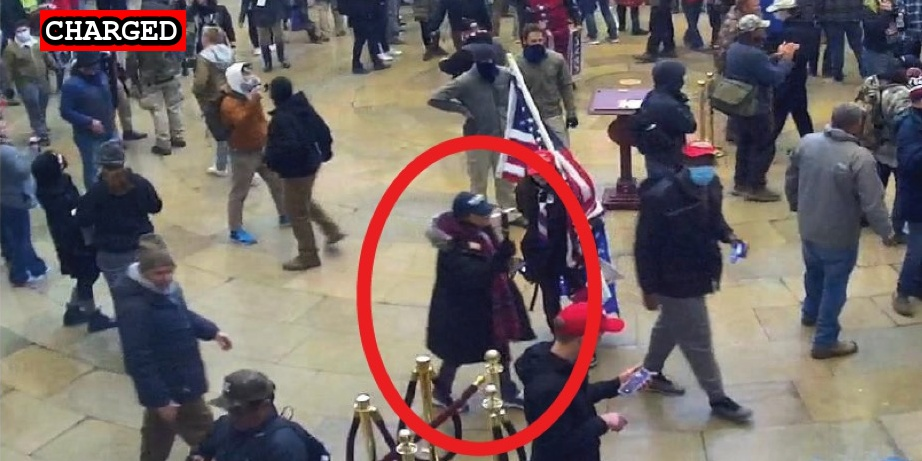
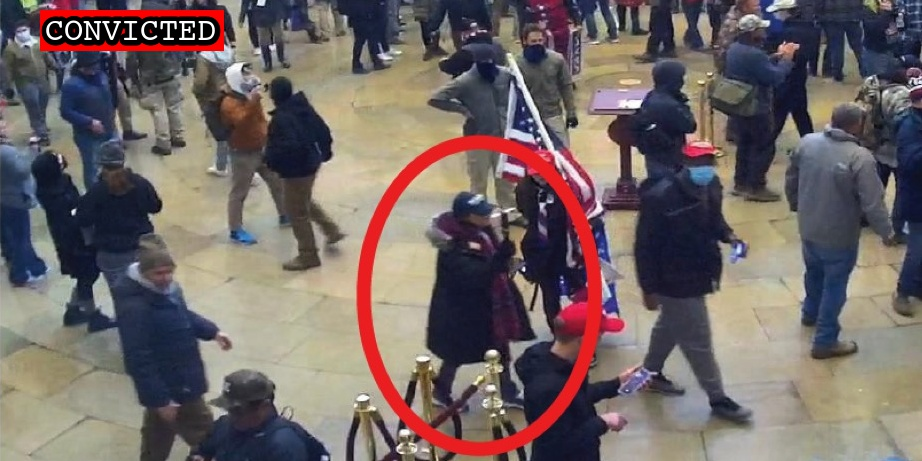
Hemphill plea

Changed region(s): [[0.0304, 0.0, 0.243, 0.1215]]

diff --git a/docs/_suspects/pamela-hemphill.md b/docs/_suspects/pamela-hemphill.md
@@ -4,16 +4,16 @@ lastName: Hemphill
 hashtag: IAmPamHemphill
 aka:
 residence: Idaho
-status: Charged
+status: Convicted
 date: 2021-08-02
 charged: 2021-08-02
 indicted:
-convicted:
+convicted: 2022-01-21
 sentenced:
 dismissed:
 deceased:
-plea_hearing:
-sentencing:
+plea_hearing: 2022-01-21
+sentencing: 2022-05-18
 age:
 occupation:
 affiliations:
@@ -34,8 +34,13 @@ published: true
 caseNumber:
 videos:
 charges:
+  - code: 18 USC § 5104(e)(2)(G)
+    title: Parading, demonstrating or picketing in a Capitol building
+    url: https://www.law.cornell.edu/uscode/text/40/5104
+    felony: false
 sentence:
 ---
+
 - [News Report](https://www.idahostatesman.com/news/local/crime/article253237378.html)
 - [Statement of Facts](https://extremism.gwu.edu/sites/g/files/zaxdzs2191/f/Pamela%20Anne%20Hemphill%20Statement%20of%20Facts.pdf)
 - [Information](https://extremism.gwu.edu/sites/g/files/zaxdzs2191/f/Pamela%20Anne%20Hemphill%20Information.pdf)
